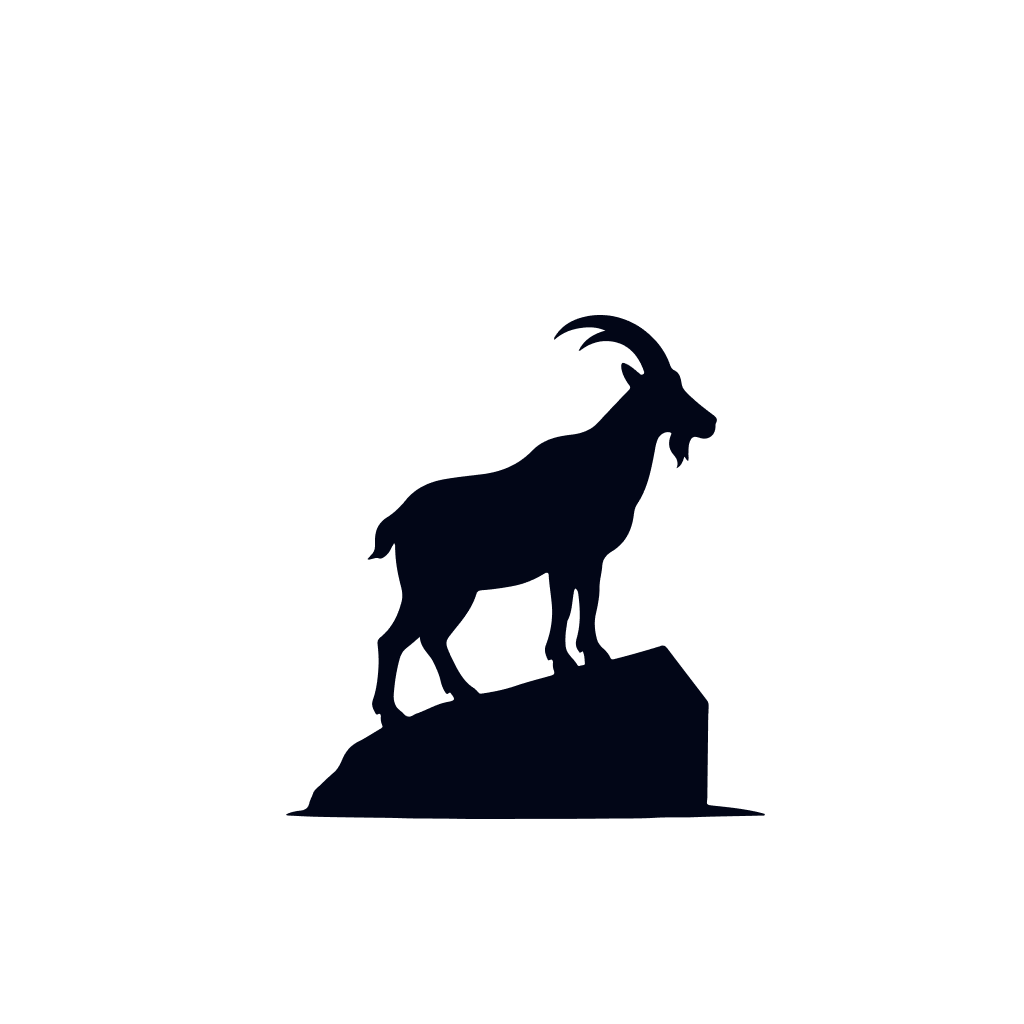
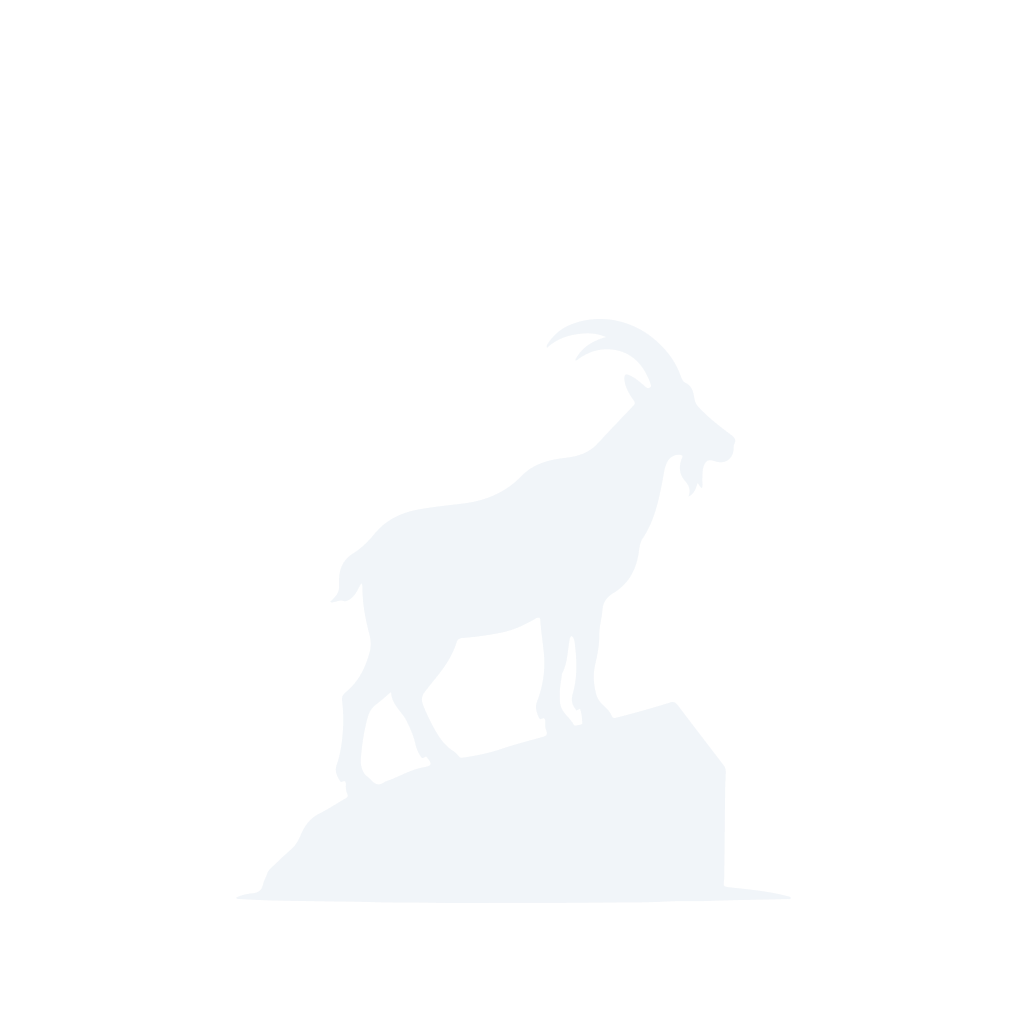
refactor: way-of-the-goat

Changed region(s): [[0.2812, 0.2812, 0.75, 0.8125]]

diff --git a/dqs-app/core/svgs/GoatMoonSvg.tsx b/dqs-app/core/svgs/GoatMoonSvg.tsx
@@ -1,0 +1,17 @@
+import * as React from "react";
+import Svg, { SvgProps, Path } from "react-native-svg";
+export const GoatMoonSvg = (props: SvgProps) => (
+    <Svg
+        width={776}
+        height={698}
+        fill="none"
+        {...props}
+    >
+        <Path
+            fill="#94A3B8"
+            fillRule="evenodd"
+            d="M667.536 657.08C734.701 587.322 776 492.484 776 388 776 173.714 602.286 0 388 0S0 173.714 0 388c0 126.609 60.642 239.055 154.465 309.875 5.784-3.09 11.399-6.517 17.015-9.946l.009-.005c3.788-2.312 7.576-4.625 11.417-6.835 2.455-1.412 3.379-2.696 2.13-5.514-1.632-3.68-2.221-7.656-1.832-11.703.169-1.762-.135-3.296-1.366-4.481-.917-.495-1.872-.075-2.793.331-1.176.518-2.298 1.011-3.219-.451-2.564-4.072-4.851-8.339-5.411-13.284-.389-3.445.682-6.574 1.748-9.692.331-.965.661-1.93.947-2.902 3.965-13.474 5.568-27.263 6.454-41.238.76-11.996.136-23.887-1.199-35.764-.503-4.475.897-7.587 4.346-10.384 16.621-13.478 25.625-31.615 30.936-51.833 1.933-7.358 1.445-14.921-.48-22.228-5.184-19.684-8.901-39.556-8.81-60.006.007-1.468-.098-3-1.593-4.884-.485.884-.962 1.739-1.43 2.577-1.001 1.793-1.959 3.508-2.847 5.258-2.837 5.591-6.333 10.556-12.05 13.595-2.284 1.213-3.939 1.913-7.095.804-2.26-.795-5.069-.027-7.88.741-1.24.339-2.481.679-3.676.884a6.198 6.198 0 0 0-.429.091c-.145.036-.29.076-.436.115-1.126.306-2.288.621-3.481-.708l1.531-1.639 2.358-2.52a616.07 616.07 0 0 0 2.701-2.911c4.78-5.193 4.675-11.342 4.567-17.643a149.545 149.545 0 0 1-.032-3.145c.057-14.141 5.149-25.759 17.794-33.654 10.524-6.571 19.436-15.333 27.216-24.874 14.727-18.062 34.043-27.096 56.365-31.176 14.113-2.58 28.352-4.236 42.583-5.891a1878.17 1878.17 0 0 0 14.637-1.74c28.452-3.53 53.522-13.968 73.519-34.551 15.891-16.355 35.893-21.353 57.194-23.733 15.486-1.731 29.454-6.27 40.438-18.132 15.054-16.254 30.355-32.28 45.688-48.271 2.389-2.492 2.173-4.203.305-6.794-5.183-7.188-9.714-14.759-11.339-23.67-.297-1.626-.54-3.314-.435-4.949.282-4.371 1.727-5.257 5.835-3.617 6.358 2.539 11.531 6.859 16.698 11.174l1.006.839a111.845 111.845 0 0 1 4.135 3.62c1.43 1.317 2.888 1.352 4.564.451 1.899-1.02 1.947-2.571 1.363-4.271-7.215-21.015-20.916-39.436-45.369-43.838-17.259-3.107-32.594 1.418-46.643 11.367a5.54 5.54 0 0 0-.423.338c-.104.091-.207.185-.311.28-.855.779-1.774 1.618-3.744 1.149 8.015-16.206 21.687-24.558 39.334-29.557-13.729-6.075-26.834-5.487-39.748-3.243-13.055 2.268-25.142 7.439-35.48 16.962-.839-2.57.174-4.012 1.1-5.328.161-.229.319-.454.464-.681 10.923-17.024 27.388-25.077 46.563-28.901 11.39-2.272 22.774-2.372 34.668-.815 18.689 3.1 35.322 10.096 49.953 21.353 17.368 13.363 30.746 29.932 38.056 50.867 1.326 3.798 2.948 6.747 6.748 8.642 7.848 3.914 9.192 11.722 10.472 19.168l.12.692c.791 4.574 2.806 7.984 5.855 11.208 12.54 13.257 26.925 24.334 41.474 35.208 3.916 2.926 6.138 6.07 3.589 10.974-.868 1.669-.913 3.5-.957 5.311l-.001.036c-.009.342-.017.683-.032 1.023-.595 14.14-12.142 19.331-22.209 16.261a89.15 89.15 0 0 0-2.786-.783l-.019-.005c-.507-.137-1.015-.273-1.52-.415-5.114-1.431-8.081-.132-10.536 4.699-2.524 4.968-2.65 10.298-2.775 15.636v.002l-.022.893c-.021.848-.045 1.695-.083 2.541-.054 1.213.022 2.434.098 3.671l.001.007c.149 2.407.302 4.874-.485 7.463-1.76-.551-2.542-1.866-3.343-3.214-.635-1.07-1.283-2.161-2.442-2.905-1.993 6.87-4.042 13.733-11.572 17.028 3.603-8.053.722-14.177-4.444-20.148-7.239-8.368-7.882-17.989-4.015-28.105.356-.929.68-1.872.967-2.825.038-.125.046-.259.043-.396a3.38 3.38 0 0 0-.01-.201c-.01-.129-.023-.259-.026-.385-5.923-3.475-15.516.255-19.387 7.796-3.007 5.859-4.098 12.246-5.188 18.632-.308 1.8-.615 3.601-.965 5.389-5.029 25.666-10.267 51.252-25.214 73.547-3.325 4.96-4.112 10.719-4.892 16.436-.234 1.708-.466 3.412-.766 5.09-3.65 20.432-13.432 36.974-31.194 47.836-8.777 5.367-13.923 11.681-14.623 22.241-.301 4.536-1.111 9.057-1.92 13.57l-.001.004c-1.043 5.823-2.084 11.633-2.027 17.448.13 13.287-2.378 25.78-5.317 38.578-2.867 12.482-1.899 25.494 1.519 38.014 1.426 5.225 4.686 9.588 8.692 13.22 4.489 4.068 8.578 8.403 11.055 14.016 1.198 2.715 3.028 2.875 5.7 2.201 21.613-5.453 43.058-11.496 64.369-18.022.2-.062.403-.119.606-.174.166-.046.333-.09.5-.134.763-.201 1.526-.402 2.234-.724 4.957-2.254 8.121-.466 11.298 3.739 12.201 16.149 24.51 32.215 36.82 48.281 7.142 9.322 14.284 18.643 21.404 27.98 2.737 3.588 2.536 7.704 2.335 11.803-.027.553-.054 1.106-.073 1.658-.03.817-.043 1.631-.017 2.437.021.622-.006 1.245-.053 1.868ZM433.733 478.216l-.001-.003c-.995-7.967-1.991-15.935-2.42-23.968-.208-3.88-2.502-4.496-6.431-2.134-13.937 8.38-28.668 14.831-44.688 17.995a400.95 400.95 0 0 1-47.341 6.473c-3.922.298-7.115 1.182-8.419 5.525-5.481 18.254-16.441 33.286-28.271 47.807a627.522 627.522 0 0 0-12.671 16.083c-3.602 4.728-4.174 9.775-2.051 15.506 2.903 7.836 6.519 15.327 10.284 22.732 7.11 13.985 14.66 27.68 28.452 36.566 2.715 1.749 4.987 4.282 7.175 6.72l.089.1c1.38 1.537 2.521 2.04 4.674 1.724 16.602-2.444 32.949-5.605 48.959-11.023 13.436-4.548 27.146-8.297 40.851-12.045l.002-.001c4.099-1.121 8.197-2.242 12.287-3.384 4.44-1.24 6.656-2.797 4.639-7.935-1.239-3.155-1.563-6.769-1.304-10.333.152-2.1.177-4.392-2.078-5.758-.663-.035-1.367.296-2.068.626-1.427.67-2.843 1.336-3.891-1.091-2.847-6.594-5.348-13.025-2.451-20.592 7.894-20.621 11.074-41.968 8.371-64.941-.48-4.893-1.089-9.771-1.698-14.649ZM278.266 627.154c-3.393-5.057-5.406-10.701-6.732-16.573-2.182-9.662-6.264-18.497-10.544-27.393-2.173-4.516-5.285-8.503-8.413-12.512-5.656-7.247-11.367-14.564-11.686-25.205a620.641 620.641 0 0 0-3.273 2.783c-.993.85-1.97 1.691-2.936 2.523l-.014.011c-4.488 3.863-8.739 7.52-13.18 10.928-5.306 4.072-8.451 9.285-10.239 15.528-4.955 17.304-7.564 35.037-8.947 52.916-.495 6.398.411 12.985 4.038 18.733 1.431 2.267 3.465 3.922 5.493 5.572 1.46 1.188 2.917 2.374 4.143 3.783 4.51 5.184 9.239 6.926 15.425 2.799 1.71-1.141 3.716-1.858 5.705-2.569.542-.194 1.083-.387 1.616-.589 4.754-1.795 9.399-3.875 14.043-5.955 9.313-4.17 18.628-8.341 28.834-10.221 11.82-2.177 12.299-3.966 4.359-13.442-.116-.139-.326-.2-.617-.285-.165-.048-.355-.103-.57-.185-.263.178-.532.384-.807.595-1.693 1.299-3.614 2.771-5.698-1.242Zm179.637-97.517c-1.718 9.363-2.288 18.826-1.595 28.288.339 4.622 1.886 9.106 4.742 12.976 1.597 2.163 3.371 4.186 5.145 6.208 2.726 3.107 5.451 6.214 7.532 9.83 1.241 2.158 2.967 1.62 4.562 1.122.236-.073.469-.146.697-.209a7.14 7.14 0 0 1 .56-.132c.322-.059.685-.111 1.068-.165 1.968-.278 4.437-.626 4.238-2.524-.144-1.364-.241-2.743-.34-4.13-.329-4.657-.665-9.396-2.752-13.9l-4.38 2.079c-5.754-7.058-7.211-12.731-4.713-21.468 6.07-21.232 5.217-42.712 2.542-64.238-.397-3.201-.931-6.872-4.067-9.294-2.195 1.615-2.492 3.873-2.771 5.998-.059.445-.116.885-.191 1.312-.618 3.549-1.076 7.13-1.533 10.71-1.259 9.86-2.519 19.717-7.135 28.885-.767 1.522-.963 3.332-1.188 5.409-.11 1.018-.227 2.099-.421 3.243Z"
+            clipRule="evenodd"
+        />
+    </Svg>
+);

diff --git a/dqs-app/app.config.js b/dqs-app/app.config.js
@@ -3,34 +3,35 @@ const IS_PREVIEW = process.env.APP_VARIANT === 'preview';
 
 const getUniqueIdentifier = () => {
   if (IS_DEV) {
-    return 'co.theportman.dietscore.dev';
+    return 'co.theportman.wotg.dev';
   }
 
   if (IS_PREVIEW) {
-    return 'co.theportman.dietscore.preview';
+    return 'co.theportman.wotg.preview';
   }
 
-  return 'co.theportman.dietscore';
+  return 'co.theportman.wotg';
 };
 
 const getAppName = () => {
-  if (IS_DEV) {
-    return 'DS [dev]';
-  }
-
-  if (IS_PREVIEW) {
-    return 'DS [pre]';
-  }
-
-  return 'Diet Score';
+  if (IS_DEV) return 'WotG';
+  if (IS_PREVIEW) return 'WotG';
+  return 'WotG';
 };
+
+const getAdaptiveIcon = () => {
+  if (IS_DEV) return './assets/images/adaptive-icon-orange.png';
+  if (IS_PREVIEW)  return './assets/images/adaptive-icon-green.png';
+  return './assets/images/adaptive-icon.png';
+};
+
 
 export default {
   name: getAppName(),
   owner: "cliveportman",
   version: '1.0.0',
-  slug: 'diet-scpre',
-  scheme: "dietscoreapp",
+  slug: 'way-of-the-goat',
+  scheme: "way-of-the-goat",
   ios: {
     bundleIdentifier: getUniqueIdentifier(),
     "supportsTablet": false
@@ -38,7 +39,7 @@ export default {
   android: {
     package: getUniqueIdentifier(),
     "adaptiveIcon": {
-      "foregroundImage": "./assets/images/adaptive-icon.png",
+      "foregroundImage": getAdaptiveIcon(),
       "backgroundColor": "#020617"
     }
   },
@@ -57,7 +58,7 @@ export default {
   },
   extra: {
     eas: {
-      projectId: '32ff1f5e-93e3-46f9-8758-b957ef39d7f5',
+      projectId: 'c024779c-b09f-417d-804a-50eae831b6ba',
     }
   }
 };

diff --git a/dqs-app/app/index.tsx b/dqs-app/app/index.tsx
@@ -5,6 +5,7 @@ import { TwText } from "@/core/components/TwText"
 import React, {useEffect, useState} from "react";
 import database from "@/core/database";
 import {useDatabase} from "@/core/hooks";
+import {GoatMoonSvg} from "@/core/svgs/GoatMoonSvg";
 
 export default function Homepage() {
 
@@ -28,8 +29,9 @@ export default function Homepage() {
         <TwContainer twc="flex-1 bg-slate-950">
             <TwContainer twc="flex-1 flex-col justify-between px-6">
                 <TwContainer twc={"flex-1 flex-col justify-end"}>
-                    <TwText variant="title" twc={"text-4xl text-center mb-1.5"}>Diet Score</TwText>
-                    <TwText variant="subtitle" twc={"text-slate-100 text-center mb-6 opacity-75"}>for endurance athletes</TwText>
+                    <GoatMoonSvg tw={"w-64 h-64 mb-6"} />
+                    <TwText variant="title" twc={"text-4xl text-center mb-3"}>Way of the Goat</TwText>
+                    <TwText variant="subtitle" twc={"text-slate-100 text-center mb-6 opacity-75"}>diet scoring for endurance athletes</TwText>
                     <TwText variant="subtitle" twc={"text-slate-500 mb-0.5 text-center"}>Based on the book</TwText>
                     <TwText variant="subtitle" twc={"text-slate-500 mb-0.5 text-center italic"}>Racing Weight</TwText>
                     <TwText variant="subtitle" twc={"text-slate-500 text-center"}>by Matt Fitzgerald</TwText>
